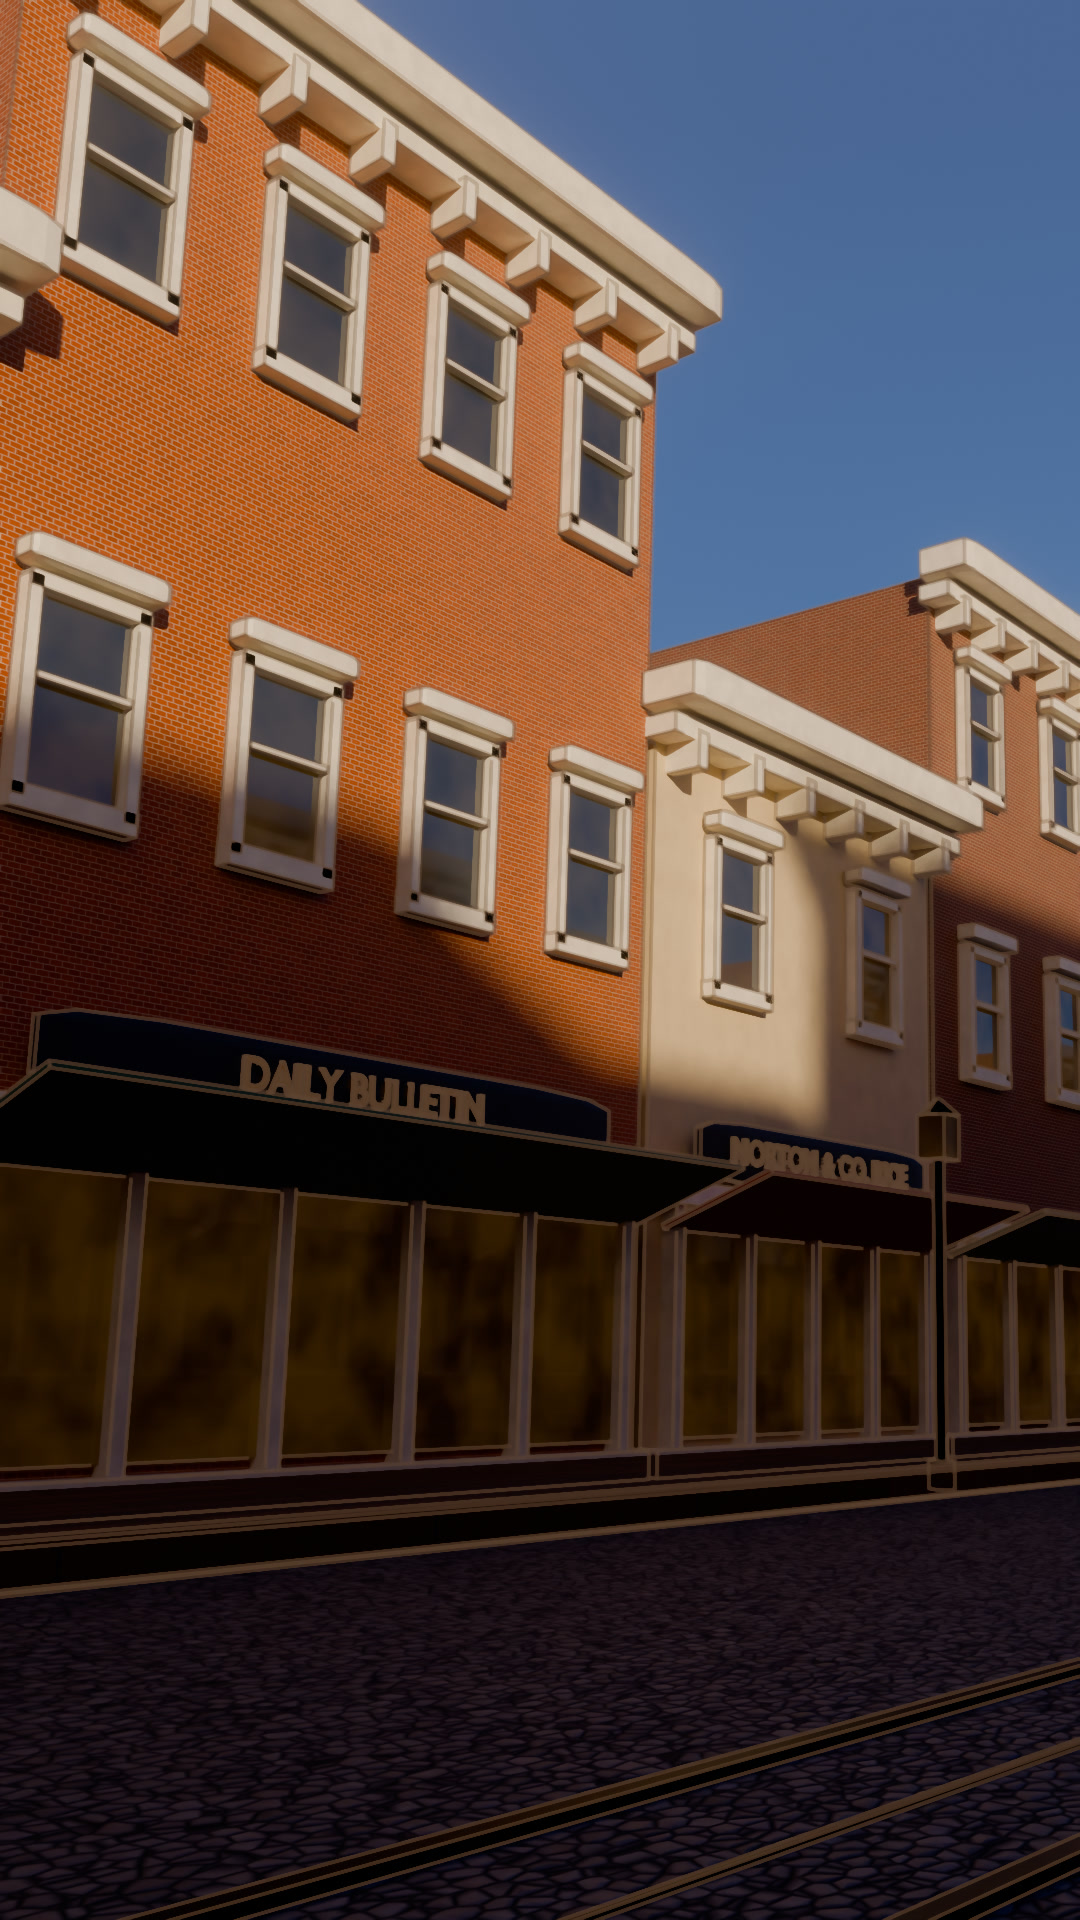
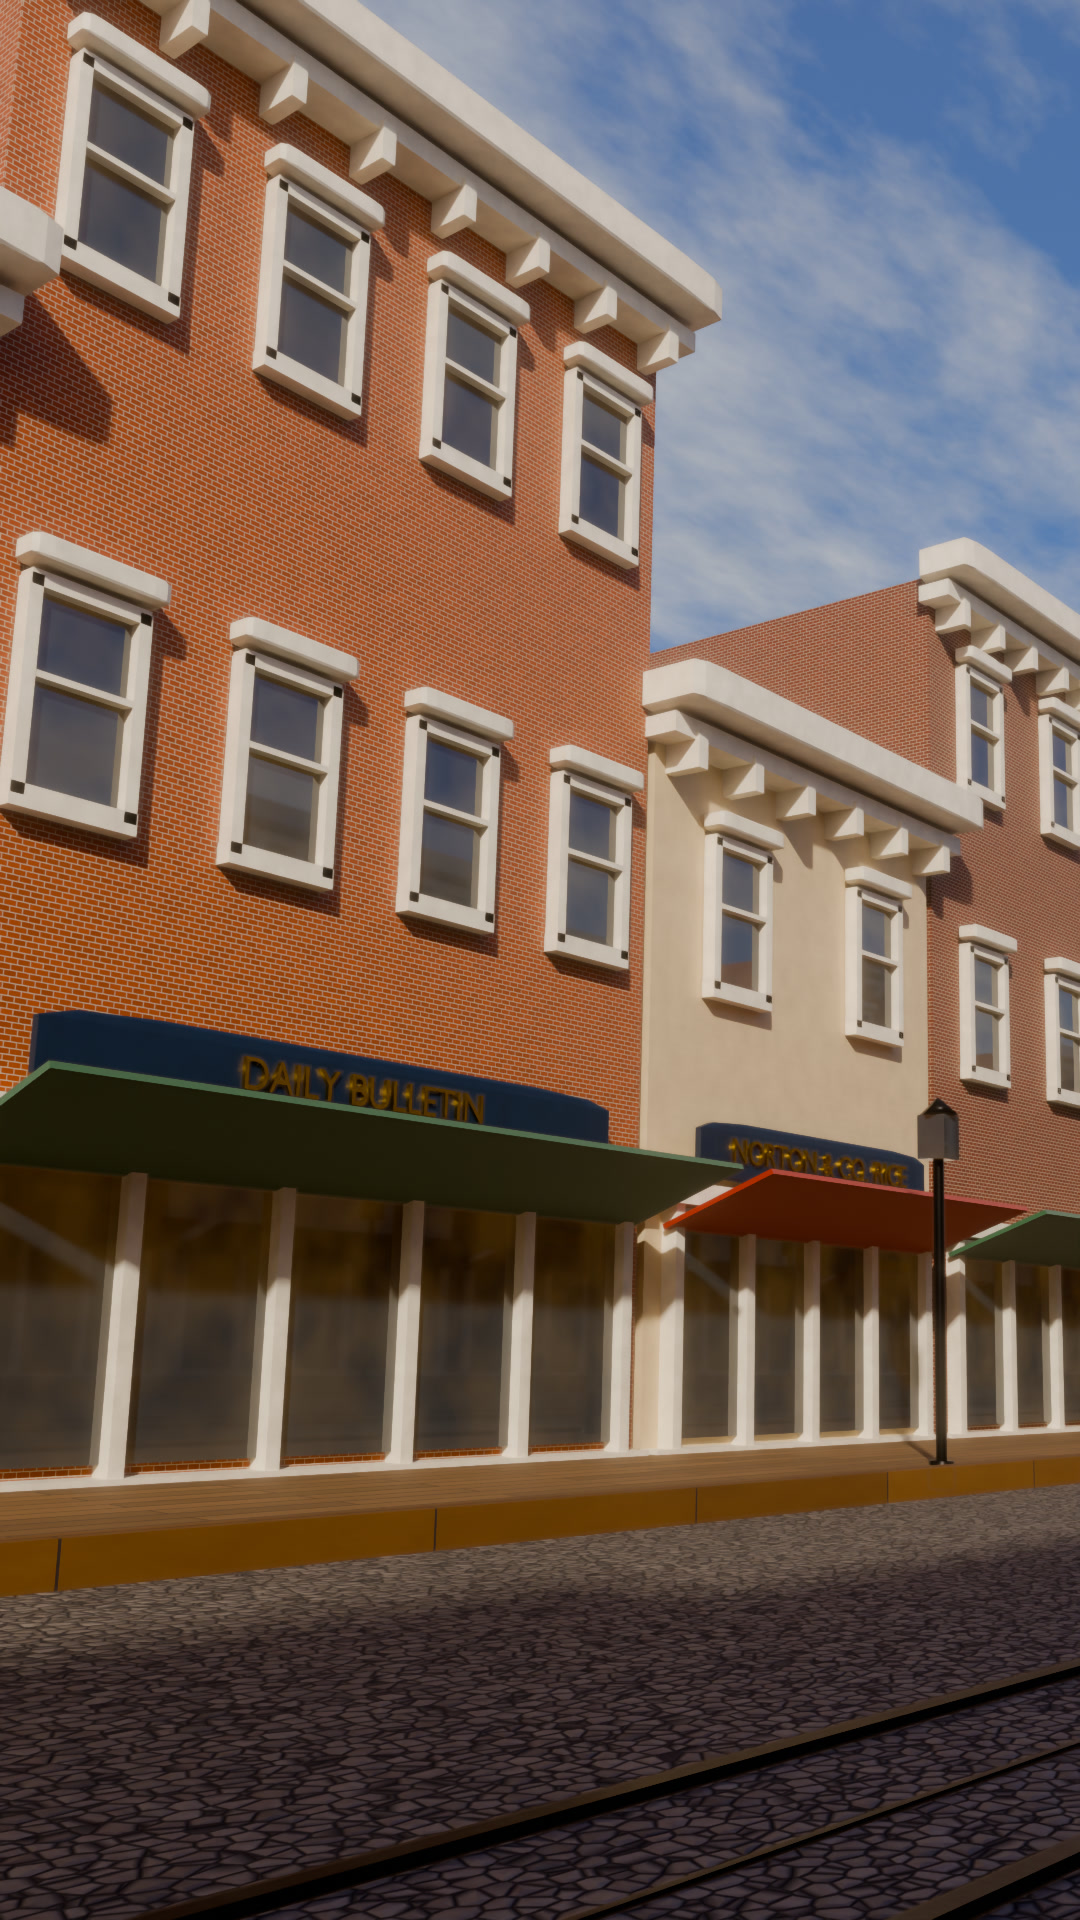
Video 16: Blender backgrounds pass 2 (wispy sky, leafy trees, grass, soft glow)
Claude-Session: https://claude.ai/code/session_01Q4bYRoWeHLz4Sfdu9inVyj

diff --git a/blender/bg.py b/blender/bg.py
@@ -244,11 +244,35 @@ M = dict(
     grass=grassm("grass"), sign=plain("sign", "#1e2a3a", 0.4), gold=plain("gold", "#e0b04a", 0.25, 1.0), water=water("water"),
     roof=plain("roof", "#4a4e56", 0.7), hull=wood("hull", "#2a1e18", 1.5), sail=cloth("sail", "#efe8d8", 0.2), rope=plain("rope", "#8a7a5a", 0.9),
     cloud=cloudm("cloud"), dome=plain("dome", "#f2efe8", 0.45, 0, 2, 0.05), marble=plain("marble", "#ece6da", 0.4, 0, 3, 0.06),
-    path=plain("path", "#b8a88a", 0.9, 0, 6, 0.2), redc=cloth("redc", "#8a2a24"), aw1=cloth("aw1", "#9a2e2a"), aw2=cloth("aw2", "#2e5a3a"),
+    path=None, redc=cloth("redc", "#8a2a24"), aw1=cloth("aw1", "#9a2e2a"), aw2=cloth("aw2", "#2e5a3a"),
     soil=plain("soil", "#5a4630", 0.95, 0, 8, 0.3),
 )
 
-def tree(x, y, z, s=1.0, seed=0, m=None):
+LEAF = {}
+def leaf_obj():
+    if "o" in LEAF: return LEAF["o"]
+    vs = [(0, -0.5, 0), (0.22, -0.1, 0.02), (0.18, 0.25, 0.03), (0, 0.5, 0), (-0.18, 0.25, 0.03), (-0.22, -0.1, 0.02)]
+    o = mesh_obj("leaf", vs, [(0, 1, 2, 3, 4, 5)], M["leaf"], c="src"); o.hide_render = True; o.hide_viewport = True; LEAF["o"] = o; return o
+def dark_leaf(): return leaf("leafdark", "#25401a", "#3e5e26")
+def leaves(emitter, m, count, size):
+    ps = emitter.modifiers.new("lv", "PARTICLE_SYSTEM").particle_system; st = ps.settings
+    st.type = "HAIR"; st.count = count; st.hair_length = 0.1; st.render_type = "OBJECT"; st.instance_object = leaf_obj(); emitter.show_instancer_for_render = True
+    st.particle_size = size; st.size_random = 0.5; st.use_rotations = True; st.rotation_mode = "NOR"; st.rotation_factor_random = 1.0; st.phase_factor_random = 2.0
+    st.use_rotation_instance = True; st.emit_from = "FACE"; st.use_modifier_stack = True
+    ps.seed = count; return ps
+def gravel(name):
+    def b(nt, bsdf, out):
+        v = coord(nt); vo = nt.nodes.new("ShaderNodeTexVoronoi"); vo.inputs["Scale"].default_value = 38; nt.links.new(v, vo.inputs["Vector"])
+        n = noise(nt, v, 3, 6)
+        c = ramp(nt, vo.outputs["Color"], [(0.0, hexc("#8a7c66")), (0.5, hexc("#c8b898")), (1.0, hexc("#a89878"))])
+        m2 = nt.nodes.new("ShaderNodeMix"); m2.data_type = "RGBA"; m2.blend_type = "MULTIPLY"; m2.inputs[0].default_value = 0.5
+        nt.links.new(c, m2.inputs[6]); nt.links.new(ramp(nt, n.outputs["Fac"], [(0.3, (0.7, 0.68, 0.64)), (0.7, (1, 1, 1))]), m2.inputs[7])
+        nt.links.new(m2.outputs[2], bsdf.inputs["Base Color"]); bsdf.inputs["Roughness"].default_value = 0.9
+        bump(nt, bsdf, vo.outputs["Distance"], 0.6, 0.02)
+    return mat(name, b)
+M["path"] = gravel("gravel")
+
+def tree(x, y, z, s=1.0, seed=0, m=None, leafy=False):
     r = random.Random(seed); m = m or (M["leaf"] if seed % 2 else M["leaf2"])
     tr = cyl(0.22 * s, 3.2 * s, x, y, z + 1.6 * s, M["bark"], 10, r2=0.12 * s); displace(tr, 0.05 * s, 0.4, seed)
     for k in range(4):
@@ -258,7 +282,9 @@ def tree(x, y, z, s=1.0, seed=0, m=None):
     blobs = []
     for k in range(r.randint(9, 13)):
         a = r.uniform(0, 6.28); d = r.uniform(0.2, 1.4) * s; h = r.uniform(3.0, 5.6) * s; rr = r.uniform(0.9, 1.5) * s * (1.15 - abs(h / s - 4.2) * 0.18)
-        b = sphere(rr, x + math.cos(a) * d, y + math.sin(a) * d, z + h, m, 3); displace(b, 0.55 * s, 0.55 * s, seed * 31 + k); blobs.append(b)
+        b = sphere(rr * (0.85 if leafy else 1.0), x + math.cos(a) * d, y + math.sin(a) * d, z + h, dark_leaf(), 3, c="foliage"); displace(b, 0.45 * s, 0.55 * s, seed * 31 + k); blobs.append(b)
+        if leafy: leaves(b, m, 900, 0.5 * s)
+        else: b.material_slots[0].material = m
     return blobs
 
 def lamp(x, y):
@@ -312,7 +338,8 @@ def boardwalk(x0, x1, y, wdt):
     box(x1 - x0, wdt, 0.25, (x0 + x1) / 2, y, 0.125, M["walk"])
     box(x1 - x0, 0.2, 0.3, (x0 + x1) / 2, y - wdt / 2 * (1 if y > 0 else -1), 0.15, M["plank"])
 
-def cloud(cx, cy, cz, sz, seed):
+def cloud(*a): return None
+def _cloud_old(cx, cy, cz, sz, seed):
     r = random.Random(seed); bpy.ops.object.metaball_add(type="BALL", location=(cx, cy, cz)); mb = bpy.context.object
     mb.data.resolution = sz * 0.06; mb.data.render_resolution = sz * 0.035; el = mb.data.elements[0]; el.radius = sz * 0.5
     for k in range(18):
@@ -325,11 +352,12 @@ def hill_mesh(x0, x1, y0, y1, fn, res=120, m=None):
 
 def hill_house(x, y, z, s, seed, out=-1):
     r = random.Random(seed); cols = ["#e8d8b8", "#c8d8e0", "#e8c8b0", "#d0e0c8", "#f0e6d6", "#d8c0c8", "#b8c8d8", "#e6d6a8"]
-    wall = clap("hh%d" % (seed % 8), cols[seed % 8]); hw, hd, hh = 5.6 * s, 8 * s, r.choice([7, 8.5, 10]) * s
+    wall = clap("hh%d" % (seed % 8), cols[(seed * 5) % 8]); s = s * r.uniform(0.85, 1.15); hw, hd, hh = 5.6 * s, 8 * s, r.choice([7, 8.5, 10]) * s
     box(hw, hd, hh, x, y, z + hh / 2 - 1, wall)
     pts = [(-hw / 2 - 0.2, 0), (hw / 2 + 0.2, 0), (0, 3.0 * s)]
     vs = [(x + px, y + yy, z + hh - 1 + pz) for yy in (-hd / 2 - 0.3, hd / 2 + 0.3) for (px, pz) in pts]
-    mesh_obj("roof", vs, [(0, 1, 2), (3, 5, 4), (0, 3, 4, 1), (1, 4, 5, 2), (2, 5, 3, 0)], M["roof"], smooth=False)
+    rm = plain("roof%d" % (seed % 4), ["#4a4e56", "#6a3a30", "#3e4a40", "#5a5248"][seed % 4], 0.7)
+    mesh_obj("roof", vs, [(0, 1, 2), (3, 5, 4), (0, 3, 4, 1), (1, 4, 5, 2), (2, 5, 3, 0)], rm, smooth=False)
     fy = y + out * hd / 2
     box(2.2 * s, 1.2 * s, 3.4 * s, x - 1.2 * s, fy + out * 0.6 * s, z + 4.4 * s, wall)  # bay window
     for (wx, wz) in [(-1.2, 4.4), (1.5, 4.4), (1.5, 1.6), (-1.5, 1.6)]:
@@ -340,20 +368,33 @@ def hill_house(x, y, z, s, seed, out=-1):
     cyl(0.35 * s, 2.2 * s, x + 1.6 * s, y - 1 * s, z + hh + 1.4 * s, brick("brc", "#8a3a2a"), 4)
 
 # ---------------------------------------------------------------- world: sky, sun, render
-def world(sun_el=14, sun_az=235, strength=0.9):
+def world(sun_el=30, sun_az=215, strength=1.0):
     w = bpy.data.worlds.new("w"); S.world = w; w.use_nodes = True; nt = w.node_tree; nt.nodes.clear()
     tc = nt.nodes.new("ShaderNodeTexCoord"); sep = nt.nodes.new("ShaderNodeSeparateXYZ"); nt.links.new(tc.outputs["Generated"], sep.inputs[0])
-    sky = ramp(nt, sep.outputs["Z"], [(0.0, hexc("#f8d8b0")), (0.035, hexc("#f0c8a0")), (0.09, hexc("#8cb8e8")), (0.25, hexc("#3c78cc")), (0.6, hexc("#1c4a9c"))])
+    sky = ramp(nt, sep.outputs["Z"], [(0.0, hexc("#e8eef2")), (0.04, hexc("#cfe0f0")), (0.12, hexc("#7fb2ec")), (0.3, hexc("#3a7ad6")), (0.65, hexc("#1a4ea8"))])
     # warm glow toward the sun
     sd = Vector((math.cos(math.radians(sun_az)) * math.cos(math.radians(sun_el)), math.sin(math.radians(sun_az)) * math.cos(math.radians(sun_el)), math.sin(math.radians(sun_el))))
     dp = nt.nodes.new("ShaderNodeVectorMath"); dp.operation = "DOT_PRODUCT"; nt.links.new(tc.outputs["Generated"], dp.inputs[0]); dp.inputs[1].default_value = sd
     gl = ramp(nt, dp.outputs["Value"], [(0.55, (0, 0, 0)), (0.9, (0.6, 0.35, 0.12)), (0.999, (3.0, 2.2, 1.2))])
+    zp = nt.nodes.new("ShaderNodeMath"); zp.operation = "ADD"; zp.inputs[1].default_value = 0.06; nt.links.new(sep.outputs["Z"], zp.inputs[0])
+    dx = nt.nodes.new("ShaderNodeMath"); dx.operation = "DIVIDE"; nt.links.new(sep.outputs["X"], dx.inputs[0]); nt.links.new(zp.outputs[0], dx.inputs[1])
+    dy = nt.nodes.new("ShaderNodeMath"); dy.operation = "DIVIDE"; nt.links.new(sep.outputs["Y"], dy.inputs[0]); nt.links.new(zp.outputs[0], dy.inputs[1])
+    cb = nt.nodes.new("ShaderNodeCombineXYZ"); nt.links.new(dx.outputs[0], cb.inputs["X"]); nt.links.new(dy.outputs[0], cb.inputs["Y"])
+    mp = nt.nodes.new("ShaderNodeMapping"); mp.inputs["Scale"].default_value = (0.55, 1.1, 1); mp.inputs["Location"].default_value = (3.1, 7.7, 0.4); nt.links.new(cb.outputs[0], mp.inputs[0])
+    n1 = noise(nt, mp.outputs[0], 1.1, 10, 0.62); n2 = noise(nt, mp.outputs[0], 4.0, 8, 0.6)
+    wv = nt.nodes.new("ShaderNodeMath"); wv.operation = "MULTIPLY_ADD"; nt.links.new(n2.outputs["Fac"], wv.inputs[0]); wv.inputs[1].default_value = 0.35; nt.links.new(n1.outputs["Fac"], wv.inputs[2])
+    mask = ramp(nt, wv.outputs[0], [(0.62, (0, 0, 0)), (0.86, (1, 1, 1))])
+    fade = ramp(nt, sep.outputs["Z"], [(0.015, (0, 0, 0)), (0.14, (1, 1, 1))])
+    mm = nt.nodes.new("ShaderNodeMix"); mm.data_type = "RGBA"; mm.blend_type = "MULTIPLY"; mm.inputs[0].default_value = 1; nt.links.new(mask, mm.inputs[6]); nt.links.new(fade, mm.inputs[7])
+    sh = ramp(nt, n2.outputs["Fac"], [(0.3, hexc("#9aa6bc")), (0.55, hexc("#e8ecf2")), (0.75, (1.25, 1.2, 1.12))])
+    sw = nt.nodes.new("ShaderNodeSeparateColor"); nt.links.new(mm.outputs[2], sw.inputs[0])
+    cl = nt.nodes.new("ShaderNodeMix"); cl.data_type = "RGBA"; nt.links.new(sw.outputs[0], cl.inputs[0]); nt.links.new(sky, cl.inputs[6]); nt.links.new(sh, cl.inputs[7])
     add = nt.nodes.new("ShaderNodeMix"); add.data_type = "RGBA"; add.blend_type = "ADD"; add.inputs[0].default_value = 1
-    nt.links.new(sky, add.inputs[6]); nt.links.new(gl, add.inputs[7])
+    nt.links.new(cl.outputs[2], add.inputs[6]); nt.links.new(gl, add.inputs[7])
     bg = nt.nodes.new("ShaderNodeBackground"); bg.inputs["Strength"].default_value = strength; o = nt.nodes.new("ShaderNodeOutputWorld")
     nt.links.new(add.outputs[2], bg.inputs[0]); nt.links.new(bg.outputs[0], o.inputs[0])
     w.mist_settings.start = 40; w.mist_settings.depth = 1200; w.mist_settings.falloff = "QUADRATIC"
-    ld = bpy.data.lights.new("sun", "SUN"); ld.energy = 6.5; ld.color = (1.0, 0.8, 0.58); ld.angle = math.radians(2.0)
+    ld = bpy.data.lights.new("sun", "SUN"); ld.energy = 5.5; ld.color = (1.0, 0.9, 0.76); ld.angle = math.radians(2.0)
     so = bpy.data.objects.new("sun", ld); S.collection.objects.link(so)
     so.rotation_euler = (-sd).to_track_quat("-Z", "Y").to_euler()
 
@@ -372,16 +413,16 @@ def render_setup():
     S.view_settings.view_transform = "AgX"
     try: S.view_settings.look = "AgX - Punchy"
     except Exception: pass
-    S.view_settings.exposure = 0.35
+    S.view_settings.exposure = 0.45
     S.render.image_settings.file_format = "PNG"; S.render.filepath = OUT
     vl = S.view_layers[0]; vl.use_pass_mist = True
     # freestyle ink lines, thin warm-brown, on silhouettes and creases
     S.render.use_freestyle = True; S.render.line_thickness_mode = "ABSOLUTE"; S.render.line_thickness = 1.3 * W / 1080
     fs = vl.freestyle_settings; ls = fs.linesets[0] if fs.linesets else fs.linesets.new("ink")
-    ls.select_by_visibility = True; ls.select_silhouette = True; ls.select_border = True; ls.select_crease = True
+    ls.select_by_visibility = True; ls.select_silhouette = True; ls.select_border = False; ls.select_crease = False
     ls.select_by_collection = True; ls.collection = coll("main"); ls.collection_negation = "INCLUSIVE"
     if ls.linestyle is None: ls.linestyle = bpy.data.linestyles.new("ink")
-    ls.linestyle.color = (0.16, 0.1, 0.07); ls.linestyle.alpha = 0.75; fs.crease_angle = math.radians(120)
+    ls.linestyle.color = (0.16, 0.1, 0.07); ls.linestyle.alpha = 0.35; fs.crease_angle = math.radians(120)
     comp()
 
 def comp():
@@ -406,12 +447,17 @@ def comp():
     except Exception as e: print("kw type", e)
     kw.inputs["Sharpness"].default_value = 0.6; kw.inputs["Uniformity"].default_value = 4; kw.inputs["Eccentricity"].default_value = 1.0
     L.new(hz, kw.inputs[0])
-    mx = mixc(0.7, hz, kw.outputs[0])
+    mx = mixc(0.4, hz, kw.outputs[0])
     gl = ng.nodes.new("CompositorNodeGlare")
     try: gl.inputs["Type"].default_value = "Bloom"
     except Exception as e: print("glare type", e)
-    gl.inputs["Threshold"].default_value = 0.85; gl.inputs["Strength"].default_value = 0.35; gl.inputs["Size"].default_value = 0.6
+    gl.inputs["Threshold"].default_value = 0.75; gl.inputs["Strength"].default_value = 0.45; gl.inputs["Size"].default_value = 0.75
     L.new(mx, gl.inputs[0])
+    fg = ng.nodes.new("CompositorNodeGlare")
+    try: fg.inputs["Type"].default_value = "Fog Glow"
+    except Exception as e: print("fog type", e)
+    fg.inputs["Threshold"].default_value = 0.6; fg.inputs["Strength"].default_value = 0.22; fg.inputs["Size"].default_value = 0.9
+    L.new(gl.outputs[0], fg.inputs[0]); gl = fg
     cc = ng.nodes.new("CompositorNodeHueSat"); cc.inputs["Saturation"].default_value = 1.12
     L.new(gl.outputs[0], cc.inputs["Image"]); L.new(cc.outputs[0], oin)
 
@@ -444,7 +490,7 @@ def street_world(hillside=True, far=True):
     for i in range(6): cloud(-200 + i * 90, 600 + (i % 2) * 120, 160 + (i % 3) * 40, 70 + (i % 3) * 20, i)
 
 def table_scene():
-    tx, ty = 2.0, 5.0
+    tx, ty = 2.0, 3.6
     top = box(2.0, 1.1, 0.08, tx, ty, 0.95, wood("tab", "#5a3a22", 1.5), 0.02)
     for sx in (-0.9, 0.9):
         for sy in (-0.45, 0.45):
@@ -530,27 +576,30 @@ def capitol_world():
     rr = random.Random(5)
     for row, y in enumerate(range(10, 130, 14)):
         for side in (-1, 1):
-            tree(side * (8 + rr.uniform(-0.5, 0.5)), y, 0, 1.25 + rr.uniform(-0.1, 0.15), row * 2 + (side > 0))
+            tree(side * (8 + rr.uniform(-0.5, 0.5)), y, 0, 1.25 + rr.uniform(-0.1, 0.15), row * 2 + (side > 0), leafy=y < 70)
     for k in range(40): tree(rr.uniform(-160, 160), rr.uniform(170, 260), 0, rr.uniform(1.2, 1.8), 100 + k)
     for side in (-1, 1):
         for y in range(5, 130, 9): lamp(side * 4.5, y)
     for k in range(-6, 7):  # flower beds along the path
         for side in (-1, 1):
-            for j in range(6): sphere(0.18, side * 3.6 + rr.uniform(-0.3, 0.3), 12 + k * 9 + j * 0.5, 0.15, plain("fl%d" % (j % 3), ["#d83a4a", "#f0c040", "#e8e0f0"][j % 3], 0.5), 2)
+            bb = sphere(0.45, side * 3.9, 12 + k * 9, 0.25, M["leaf2"], 3); bb.scale = (0.5, 1.4, 0.45); displace(bb, 0.12, 0.25, k * 7 + side)
+            for j in range(9): sphere(0.06, side * 3.9 + rr.uniform(-0.2, 0.2), 12 + k * 9 + rr.uniform(-0.55, 0.55), 0.42 + rr.uniform(-0.05, 0.05), plain("fl%d" % (j % 3), ["#d83a4a", "#f0c040", "#f4f0f8"][j % 3], 0.5), 2)
     for i in range(7): cloud(-260 + i * 90, 520 + (i % 2) * 120, 150 + (i % 3) * 40, 60 + (i % 3) * 22, i + 30)
     grass_hair()
 
 def grass_hair():
-    bpy.ops.mesh.primitive_plane_add(size=1, location=(0, 6, 0.02)); g = bpy.context.object; g.scale = (60, 26, 1); bpy.ops.object.transform_apply(scale=True)
-    g.data.materials.append(M["grass"]); link(g, "grass")
-    ps = g.modifiers.new("hair", "PARTICLE_SYSTEM").particle_system.settings
-    ps.type = "HAIR"; ps.count = 260000; ps.hair_length = 0.16; ps.use_advanced_hair = True; ps.child_type = "NONE"
-    ps.root_radius = 0.6; ps.tip_radius = 0.0; ps.radius_scale = 0.012; ps.use_rotations = True; ps.rotation_factor_random = 0.3; ps.phase_factor_random = 1.0
-    ps.brownian_factor = 0.02; ps.length_random = 0.6; ps.material_slot = g.material_slots[0].name
+    for side in (-1, 1):
+        g = grid(side * 3.4, side * 14, -8, 16, 1, 1, lambda x, y: 0.02, M["grass"], c="grass")
+        if side < 0:
+            for p in g.data.polygons: p.flip()
+        ps = g.modifiers.new("hair", "PARTICLE_SYSTEM").particle_system; st = ps.settings; ps.seed = side + 5
+        st.type = "HAIR"; st.count = 140000; st.hair_length = 0.28; st.use_advanced_hair = False; st.child_type = "NONE"
+        st.root_radius = 1.0; st.tip_radius = 0.0; st.radius_scale = 0.008; st.length_random = 0.7; st.brownian_factor = 0.03
+        st.material_slot = g.material_slots[0].name
 
 SHOTS = {
-    "trees": lambda: (capitol_world(), camera((0, -6, 1.6), (0, 60, 6), 22, dof=(14, 6.0))),
-    "table": lambda: (street_world(False), table_scene(), camera((5.2, 1.4, 1.6), (2.0, 5.5, 1.1), 30, dof=(5.0, 2.8))),
+    "trees": lambda: (capitol_world(), camera((2.6, -6, 1.1), (-1.0, 60, 7), 22, dof=(12, 6.0))),
+    "table": lambda: (street_world(False), table_scene(), camera((5.0, -0.4, 1.55), (2.0, 3.8, 0.9), 30, dof=(5.2, 2.8))),
     "sky": lambda: (bay_world(), camera((4, -16, 1.6), (16, 30, 26), 20)),
     "water": lambda: (bay_world(), camera((1.5, -12, 3.2), (40, 40, -1.5), 22)),
     "road": lambda: (street_world(True), camera((60, 0.6, 1.0), (0, -0.4, 2.4), 24)),
